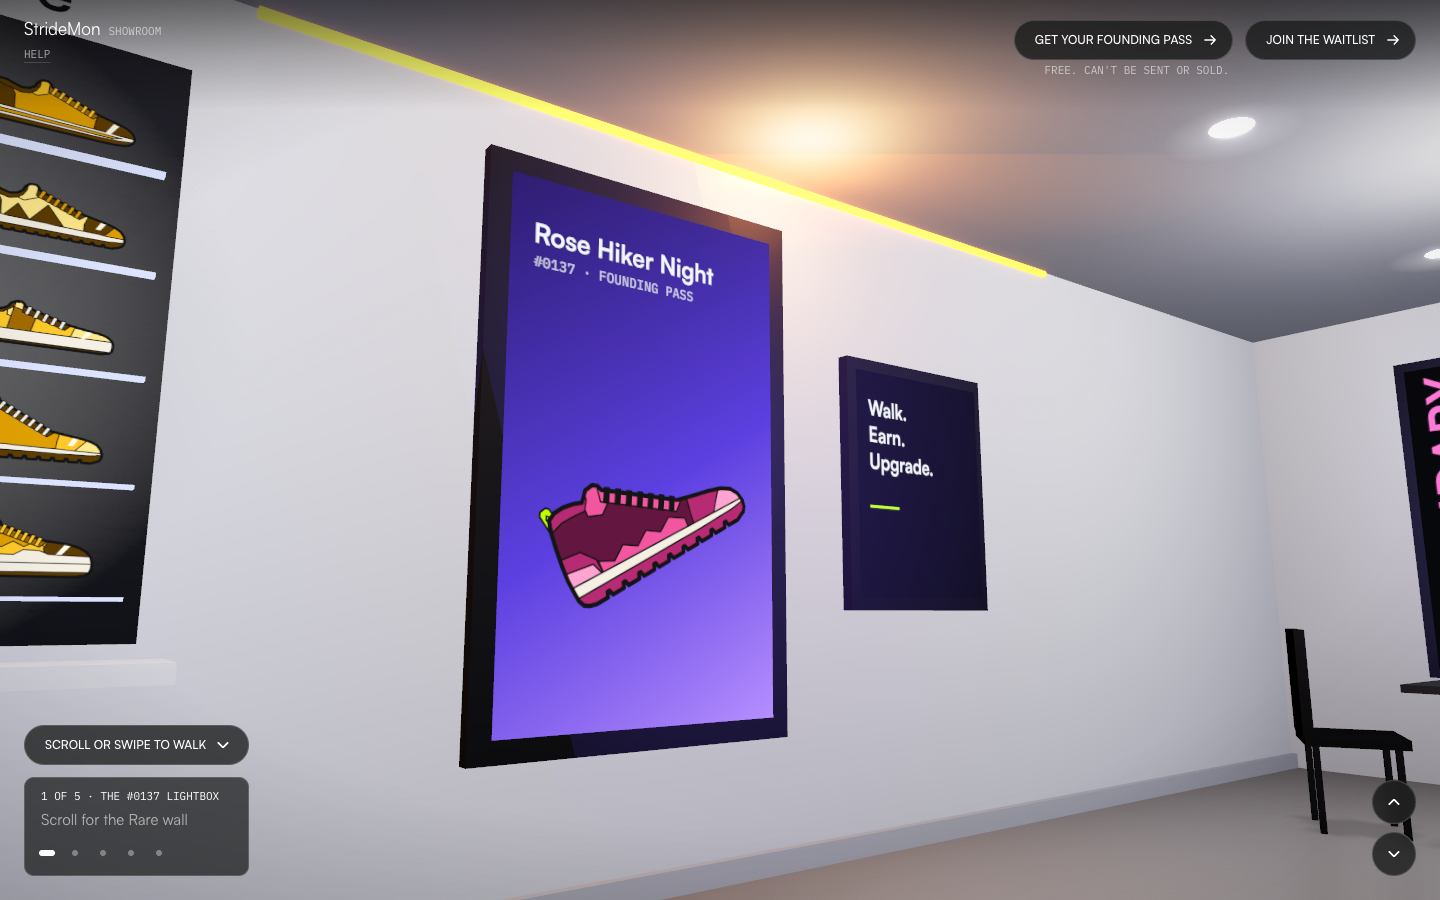
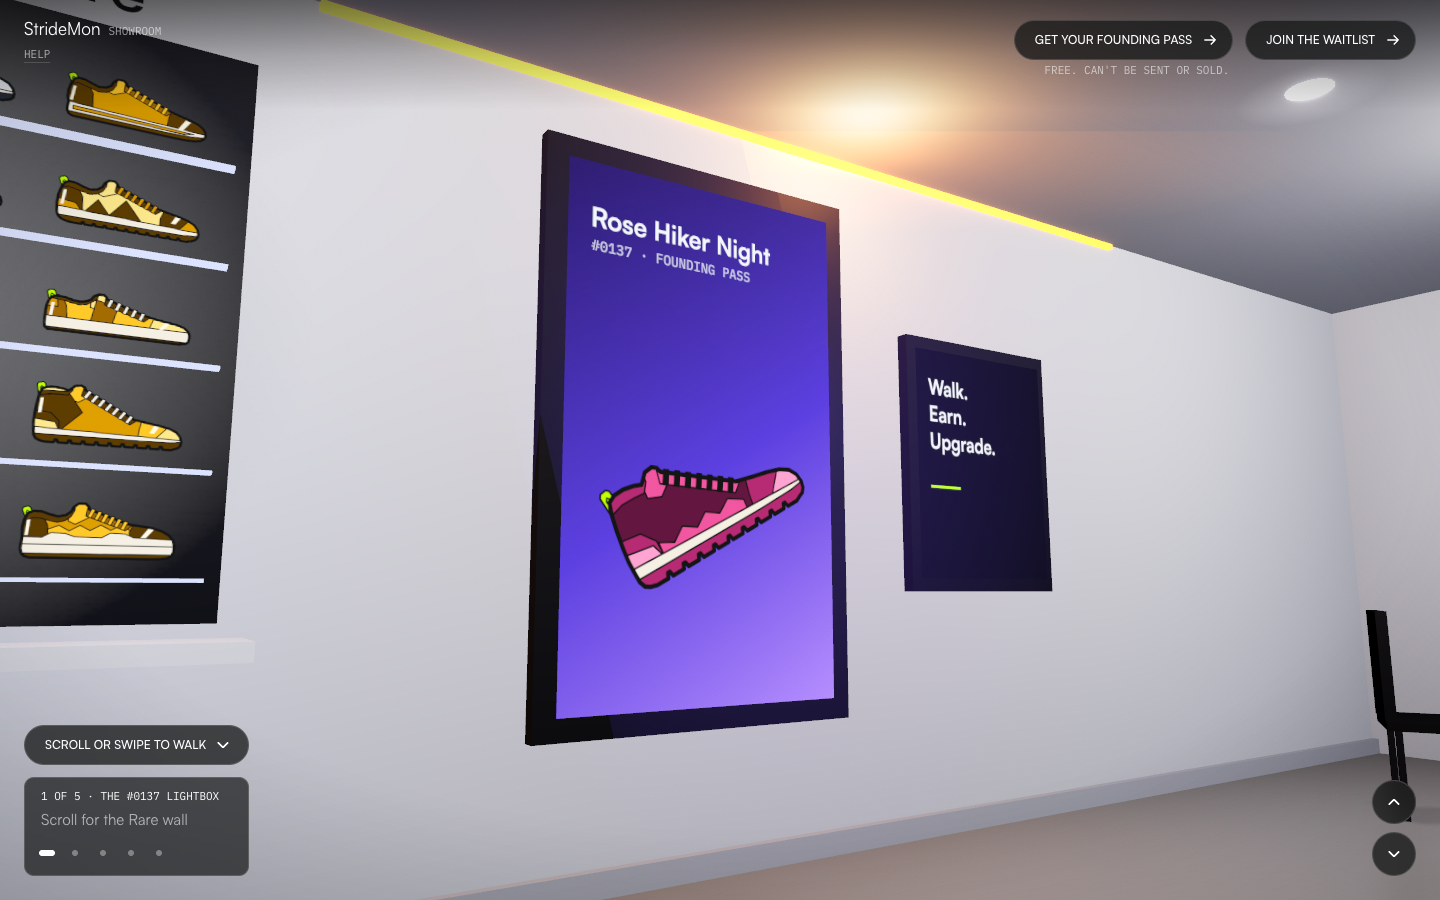
Chore: Finish part 2

diff --git a/showroom/src/store/components/back-of-store.tsx b/showroom/src/store/components/back-of-store.tsx
@@ -12,6 +12,11 @@ import { Glow, LitPanel, StorePointLight } from './store-primitives'
 const LEGENDARY_WALL_Z = -STORE_DEPTH + 0.03
 const PASS_WALL_Z = -STORE_DEPTH + 0.04
 const PASS_WALL_CENTER_X = 0.7
+/**
+ * The black counter. The film's was 3 m wide from x = −0.8, so its screen (at x = −0.9) stood past
+ * the end, in the air; here it reaches 0.5 m further left and the screen stands on it.
+ */
+const PASS_COUNTER = { centerX: PASS_WALL_CENTER_X - 0.25, width: 3.5 } as const
 const CHROME = { color: '#B9BBC2', metalness: 0.6, roughness: 0.3, environmentShare: 1 } as const
 const CHAIR_BLACK = '#111113'
 
@@ -69,15 +74,15 @@ export const backOfStoreBlocks: readonly BlockSpec[] = [
     roughness: 0.5,
   },
   {
-    position: [PASS_WALL_CENTER_X, 0.5, -8.55],
-    size: [3.0, 1.0, 0.7],
+    position: [PASS_COUNTER.centerX, 0.5, -8.55],
+    size: [PASS_COUNTER.width, 1.0, 0.7],
     color: '#18181B',
     roughness: 0.35,
     environmentShare: 0.3,
   },
   {
-    position: [PASS_WALL_CENTER_X, 1.01, -8.55],
-    size: [3.04, 0.03, 0.74],
+    position: [PASS_COUNTER.centerX, 1.01, -8.55],
+    size: [PASS_COUNTER.width + 0.04, 0.03, 0.74],
     color: '#232327',
     roughness: 0.25,
     environmentShare: 0.5,

diff --git a/showroom/src/store/components/store-primitives.tsx b/showroom/src/store/components/store-primitives.tsx
@@ -180,12 +180,15 @@ export function LitQuads({
   brightness = 1,
   lightingSource = 'store',
   isTransparent = false,
+  isDrawnOverGlows = false,
 }: {
   texture: Texture
   quads: readonly LitQuad[]
   brightness?: number
   lightingSource?: LightingSource
   isTransparent?: boolean
+  /** A sign with its own glow around it: drawn after the glow, so the glow never cuts across it. */
+  isDrawnOverGlows?: boolean
 }) {
   const materialRef = useRef<MeshBasicMaterial>(null)
   const geometry = useMemo(() => mergeQuads(quads), [quads])
@@ -194,12 +197,12 @@ export function LitQuads({
     materialRef.current?.color.setScalar(brightness * readLightLevel(levels, lightingSource))
   })
   return (
-    <mesh geometry={geometry}>
+    <mesh geometry={geometry} renderOrder={isDrawnOverGlows ? SNEAKER_RENDER_ORDER : 0}>
       <meshBasicMaterial
         ref={materialRef}
         map={texture}
         toneMapped={false}
-        transparent={isTransparent}
+        transparent={isTransparent || isDrawnOverGlows}
         depthWrite={!isTransparent}
       />
     </mesh>

diff --git a/showroom/src/store/components/render-order.ts b/showroom/src/store/components/render-order.ts
@@ -1,6 +1,8 @@
 // The order the see-through things draw in. Glows add light but never cover a Sneaker or a print
 // (brief §5.2: no tint), so every Sneaker and print draws after every glow, over it. They write
-// no depth, so a later draw simply replaces them. The shop's glass goes last.
+// no depth, so a later draw simply replaces them. The blade sign's faces draw with the Sneakers:
+// its glow sits at the sign's centre and would otherwise light half of a face seen at an angle.
+// The shop's glass goes last.
 
 export const GLOW_RENDER_ORDER = 1
 export const SNEAKER_RENDER_ORDER = 2

diff --git a/showroom/src/store/components/street.tsx b/showroom/src/store/components/street.tsx
@@ -195,7 +195,12 @@ export function ShopFront() {
       </mesh>
       {/* The blade sign over the pavement, both faces lit. */}
       <group position={[5.55, 3.0, 0.75]}>
-        <LitQuads texture={assets.bladeSign} quads={BLADE_SIGN_FACES} lightingSource="sign" />
+        <LitQuads
+          texture={assets.bladeSign}
+          quads={BLADE_SIGN_FACES}
+          lightingSource="sign"
+          isDrawnOverGlows
+        />
         <Glow
           texture={assets.glow}
           position={[0, 0, 0]}

diff --git a/showroom/src/visit/walk-plan.ts b/showroom/src/visit/walk-plan.ts
@@ -126,7 +126,7 @@ export const INSIDE_BOUNDS = { minX: -4.55, maxX: 4.55, minZ: -9.55, maxZ: -0.35
  */
 export const OBSTACLES = [
   { name: 'table and chairs', minX: -4.55, maxX: -1.45, minZ: -8.95, maxZ: -6.95 },
-  { name: 'Founding Pass counter', minX: -1.15, maxX: 2.55, minZ: -9.3, maxZ: -7.85 },
+  { name: 'Founding Pass counter', minX: -1.6, maxX: 2.55, minZ: -9.3, maxZ: -7.85 },
   { name: 'white counter', minX: 3.1, maxX: 4.7, minZ: -7.25, maxZ: -3.55 },
 ] as const
 

diff --git a/docs/decisions.md b/docs/decisions.md
@@ -2191,7 +2191,7 @@ changed four of the additions D-063 listed. Proposed by Claude; approved by Yash
 ## D-065 — The showroom's walk, as built: framed stops, the street as a stop, LEDs that come on
 
 Made 2026-10-22, while building the showroom's Part 2 (the arrival and the walk, D-063). Proposed
-by Claude; Yash approves it with Part 2.
+by Claude; approved by Yash with Part 2 (2026-10-22), item 6 from his phone check.
 
 - **Decision:**
   1. **Each stop is a subject, framed for the screen.** A stop names a rectangle in the world (the
@@ -2215,6 +2215,12 @@ by Claude; Yash approves it with Part 2.
      film's.
   5. **The dev view switch is gone; the colour check's four face-on views stay** in the dev panel,
      so the colour check can be run again after a change to the materials or the effects.
+  6. **Two fixes to the film's store, found on Yash's phone.** The black counter on the Founding
+     Pass wall is 3.5 m wide, not 3 m: it now reaches 0.5 m further left, so the upright screen
+     (where the film put it, at x = −0.9) stands on it instead of in the air past its end. And the
+     blade sign's faces draw after its glow (as the Sneakers do, D-064): the glow sprite sits at the
+     sign's centre, and seen at an angle it lit only the far half of a face, so the words seemed to
+     hang off a smaller black box.
 - **Why:** the brief's walk has to show the whole subject on a phone held upright and on a laptop,
   never walk through furniture, and keep the film's light; and the lights-on moment needs a dark
   store to come up from.

diff --git a/CLAUDE.md b/CLAUDE.md
@@ -209,9 +209,9 @@ counter's stand through Find. Built from `docs/showroom/`, **one part per sessio
 prompt in its `README.md`. It only shows: it links to `stridemon.xyz` to mint or join, and never
 connects a wallet or takes an email. Parts 0 and 1 are done (2026-10-22): the store runs in
 `showroom/` (`bun run dev`, port 3002; shots in `docs/showroom/look/part-1/`). **Part 2 (the
-arrival and the walk) is built** (2026-10-22, D-065: framed stops, the street as stop 0, the LEDs come
-on with the store; every walk number in `showroom/src/visit/walk-plan.ts`) and waits for Yash's
-phone check; Part 3 comes after his go-ahead. Its rendering findings are D-064: no screen-space AO (it shaded the
+arrival and the walk) is done** (2026-10-22, D-065: framed stops, the street as stop 0, the LEDs come
+on with the store; every walk number in `showroom/src/visit/walk-plan.ts`; shots in
+`docs/showroom/look/part-2/`). **Part 3 (look closer and find) is next.** Its rendering findings are D-064: no screen-space AO (it shaded the
 Sneakers), glows draw under the Sneakers. Live by 2026-11-09.
 **Waitlist growth (2026-10-18):** `docs/waitlist-growth-plan.md` is the plan to grow the waitlist
 from 18 to 10,000 before the window (2026-11-28 14:30 UTC). Its parts are the referral early hour,

diff --git a/docs/showroom/README.md b/docs/showroom/README.md
@@ -62,7 +62,7 @@ links to `stridemon.xyz`.
 |---|---|---|---|
 | [0](part-0-decide.md) | Decide: the plan rewritten for the film's store, the open questions, the decision entry, the docs | S | **Done** (2026-10-22, D-063) |
 | [1](part-1-store.md) | The store: set up `showroom/`, export the art, port the film's store, add what live rendering brings, first tiers, the colour check | L | **Done** (2026-10-22, D-064) |
-| [2](part-2-walk.md) | The arrival and the walk: the street, the lights coming on, Step inside, five stops, look around | M | Built (2026-10-22, D-065): waiting for Yash's phone and laptop check |
+| [2](part-2-walk.md) | The arrival and the walk: the street, the lights coming on, Step inside, five stops, look around | M | **Done** (2026-10-22, D-065) |
 | [3](part-3-look-closer.md) | Look closer and find: tap a Sneaker, the card, the minted state (the API's showroom origin), Find and the stand, the deep link | M | Not started |
 | [4](part-4-finish.md) | Finish and fallbacks: the loader, the last light pass, tuned tiers, no-WebGL still, slow network, the stuck-point check | M | Not started |
 | [5](part-5-launch.md) | Launch: Vercel, `showroom.stridemon.xyz`, the API origin, links from the website, the X post draft | S | Not started |

diff --git a/docs/showroom/part-2-walk.md b/docs/showroom/part-2-walk.md
@@ -47,7 +47,8 @@ at each. It works with a thumb on a portrait phone as well as on a laptop.
 
 As built (D-065): each stop is framed by solving the camera's distance for its subject; the
 street is stop 0 (walking back from stop 1 goes out to it); the inside LEDs dim with the store in
-the dark front so they can come on. The numbers are in `showroom/src/visit/walk-plan.ts`.
+the dark front so they can come on. Two fixes to the film's store: the Founding Pass counter is
+0.5 m longer so its screen stands on it, and the blade sign draws over its own glow. The numbers are in `showroom/src/visit/walk-plan.ts`.
 
 ## Nobody gets stuck
 

diff --git a/docs/showroom/brief.md b/docs/showroom/brief.md
@@ -2,7 +2,7 @@
 
 **Status:** decided (D-063, 2026-10-22): the store from the Showroom film, live. Part 1 (the
 store) is done (2026-10-22); its rendering findings are D-064. Part 2 (the arrival and the walk) is
-built (2026-10-22, D-065) and waits for Yash's check on the phone. The build order is in [`README.md`](README.md); the research is in
+done (2026-10-22, D-065). Part 3 is next. The build order is in [`README.md`](README.md); the research is in
 [`references.md`](references.md).
 
 The first plan (a stone nave, ten chapels, an apse, cloisonné 3D Sneakers and a vault of 1,000
